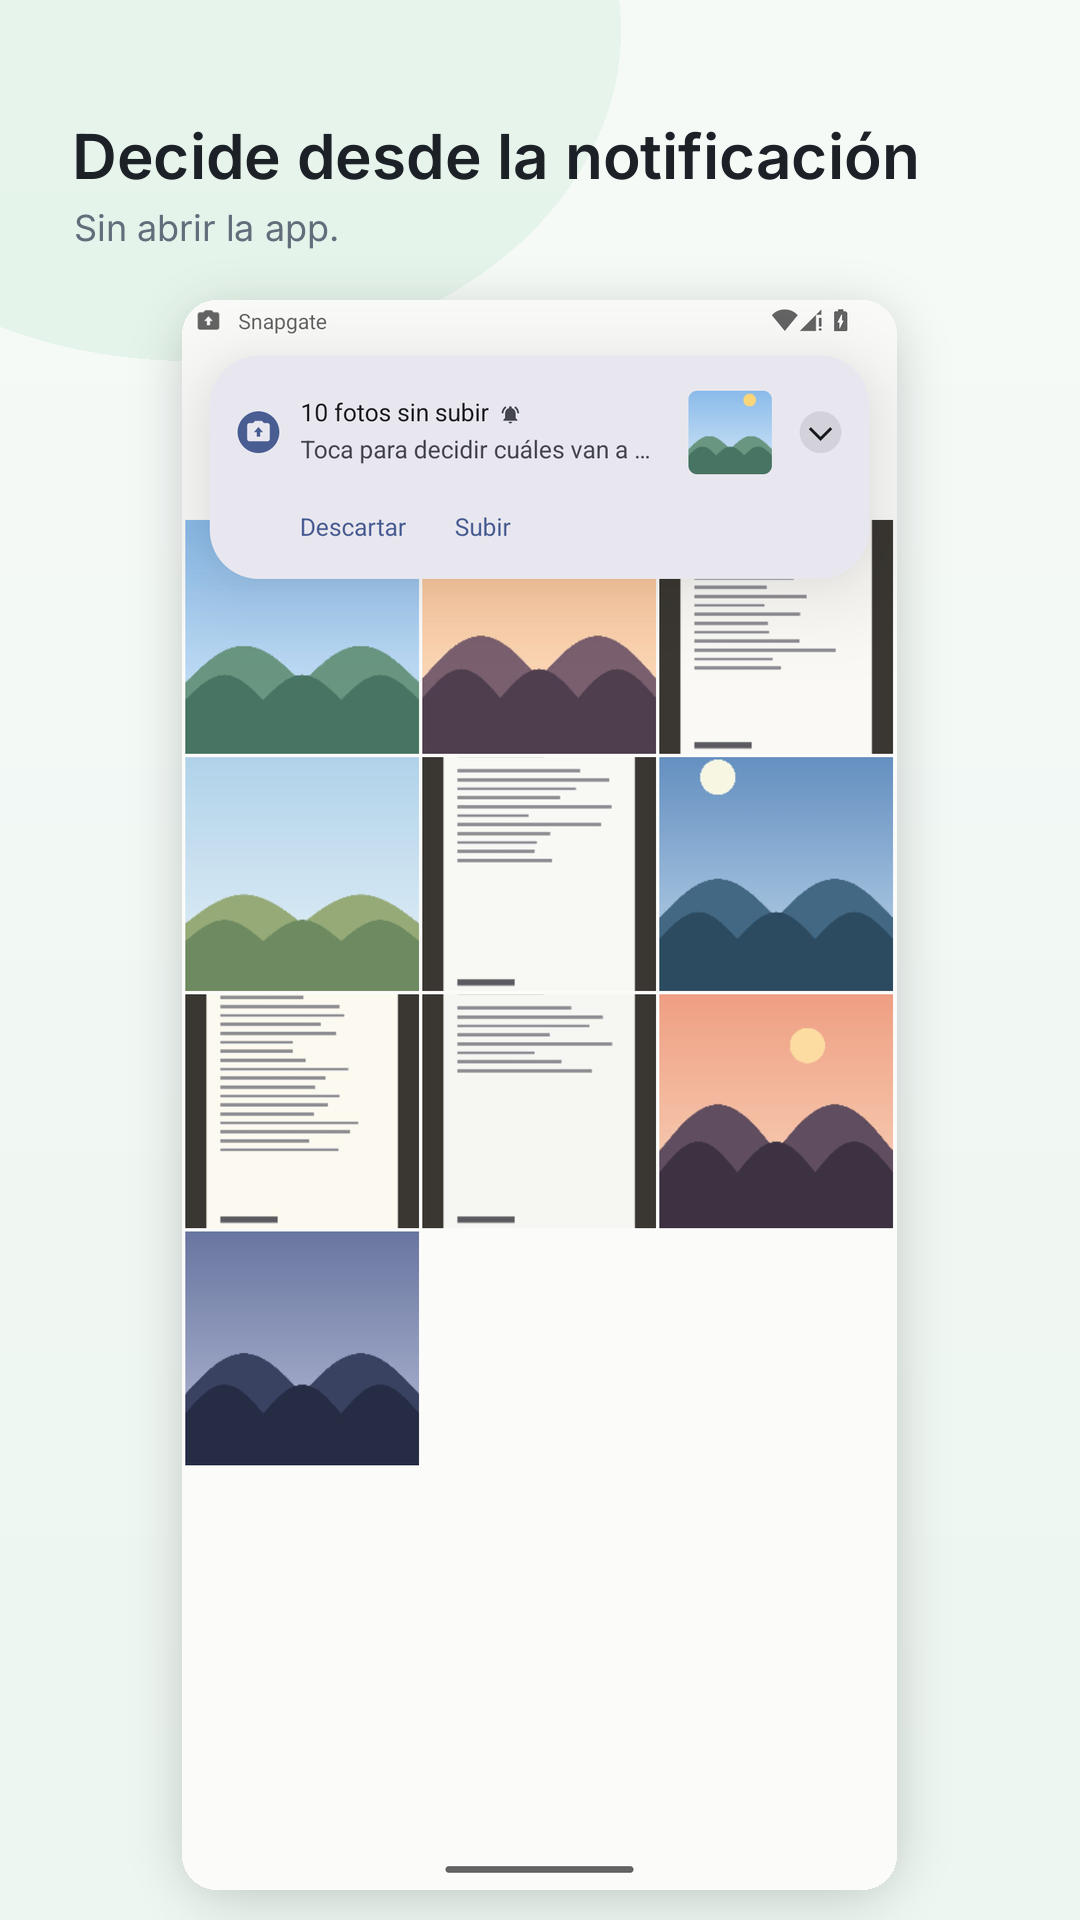
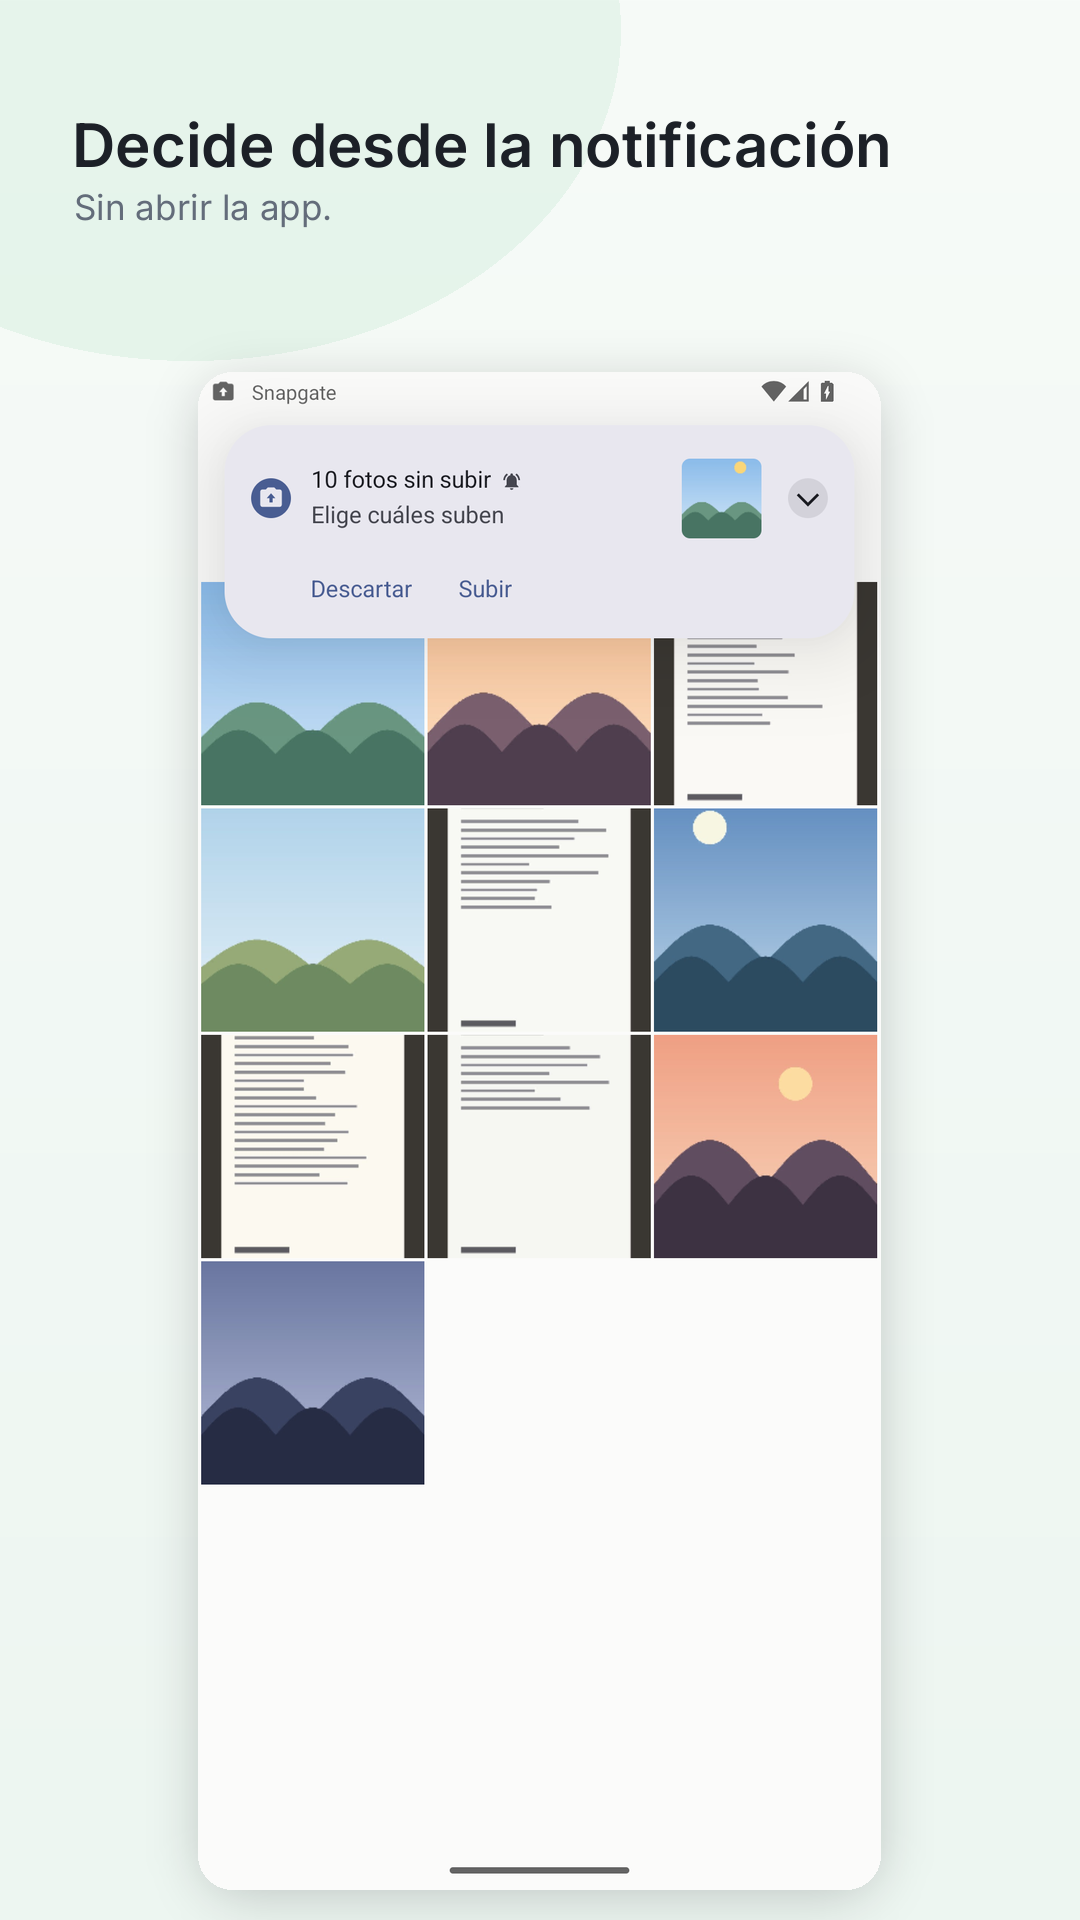
fix: los rótulos de las capturas se salían del lienzo
PIL no ajusta el texto solo: si no cabe, lo dibuja igual y se sale por el
borde sin avisar. Añadido reparto en líneas midiendo el ancho real, y rótulos
acortados para que cada uno entre en una sola línea.

diff --git a/tools/store_shots.py b/tools/store_shots.py
@@ -23,8 +23,8 @@ SOFT = (99, 108, 122)
 SHOTS = [
     ("phone-notif.png", "Decide desde la notificación", "Sin abrir la app."),
     ("phone-selection.png", "O repasa por tandas", "Diez fotos despachadas en segundos."),
-    ("phone-features.png", "Modos y reglas que deciden por ti", "Caducan solos. No se quedan puestos."),
-    ("phone-onb1.png", "Tu nube deja de llenarse de tickets", "Solo sube lo que tú apruebes."),
+    ("phone-features.png", "Reglas que deciden por ti", "Y modos temporales que caducan solos."),
+    ("phone-onb1.png", "Tu nube deja de llenarse", "De tickets, facturas y pizarras."),
 ]
 
 
@@ -32,6 +32,23 @@ def face(instance, size):
     f = ImageFont.truetype(FONT, size)
     f.set_variation_by_name(instance)
     return f
+
+
+def wrap(draw, text, font, max_width):
+    """Reparte el texto en lineas que quepan. PIL no ajusta solo: si el rotulo
+    se pasa de ancho, lo dibuja igual y se sale del lienzo sin avisar."""
+    words, lines, current = text.split(), [], ""
+    for word in words:
+        probe = (current + " " + word).strip()
+        if draw.textlength(probe, font=font) <= max_width:
+            current = probe
+        else:
+            if current:
+                lines.append(current)
+            current = word
+    if current:
+        lines.append(current)
+    return lines
 
 
 def frame(shot_name, title, subtitle, index):
@@ -47,11 +64,18 @@ def frame(shot_name, title, subtitle, index):
     canvas = Image.alpha_composite(canvas.convert("RGBA"), veil).convert("RGB")
     d = ImageDraw.Draw(canvas)
 
-    d.text((72, 118), title, font=face("SemiBold", 62), fill=INK)
-    d.text((74, 206), subtitle, font=face("Regular", 36), fill=SOFT)
+    margin = 72
+    title_font = face("SemiBold", 60)
+    sub_font = face("Regular", 35)
+    y = 108
+    for line in wrap(d, title, title_font, W - margin * 2):
+        d.text((margin, y), line, font=title_font, fill=INK)
+        y += 72
+    d.text((margin + 2, y + 6), subtitle, font=sub_font, fill=SOFT)
 
     shot = Image.open(os.path.join(CAPS, shot_name)).convert("RGB")
-    target_h = H - 330
+    top = 372
+    target_h = H - top - 30
     scale = target_h / shot.height
     shot = shot.resize((int(shot.width * scale), target_h), Image.LANCZOS)
 
@@ -62,7 +86,7 @@ def frame(shot_name, title, subtitle, index):
     ImageDraw.Draw(mask).rounded_rectangle((0, 0, shot.width - 1, shot.height - 1),
                                            radius=radius, fill=255)
     x = (W - shot.width) // 2
-    y = 300
+    y = top
 
     shadow = Image.new("RGBA", (W, H), (0, 0, 0, 0))
     ImageDraw.Draw(shadow).rounded_rectangle(
